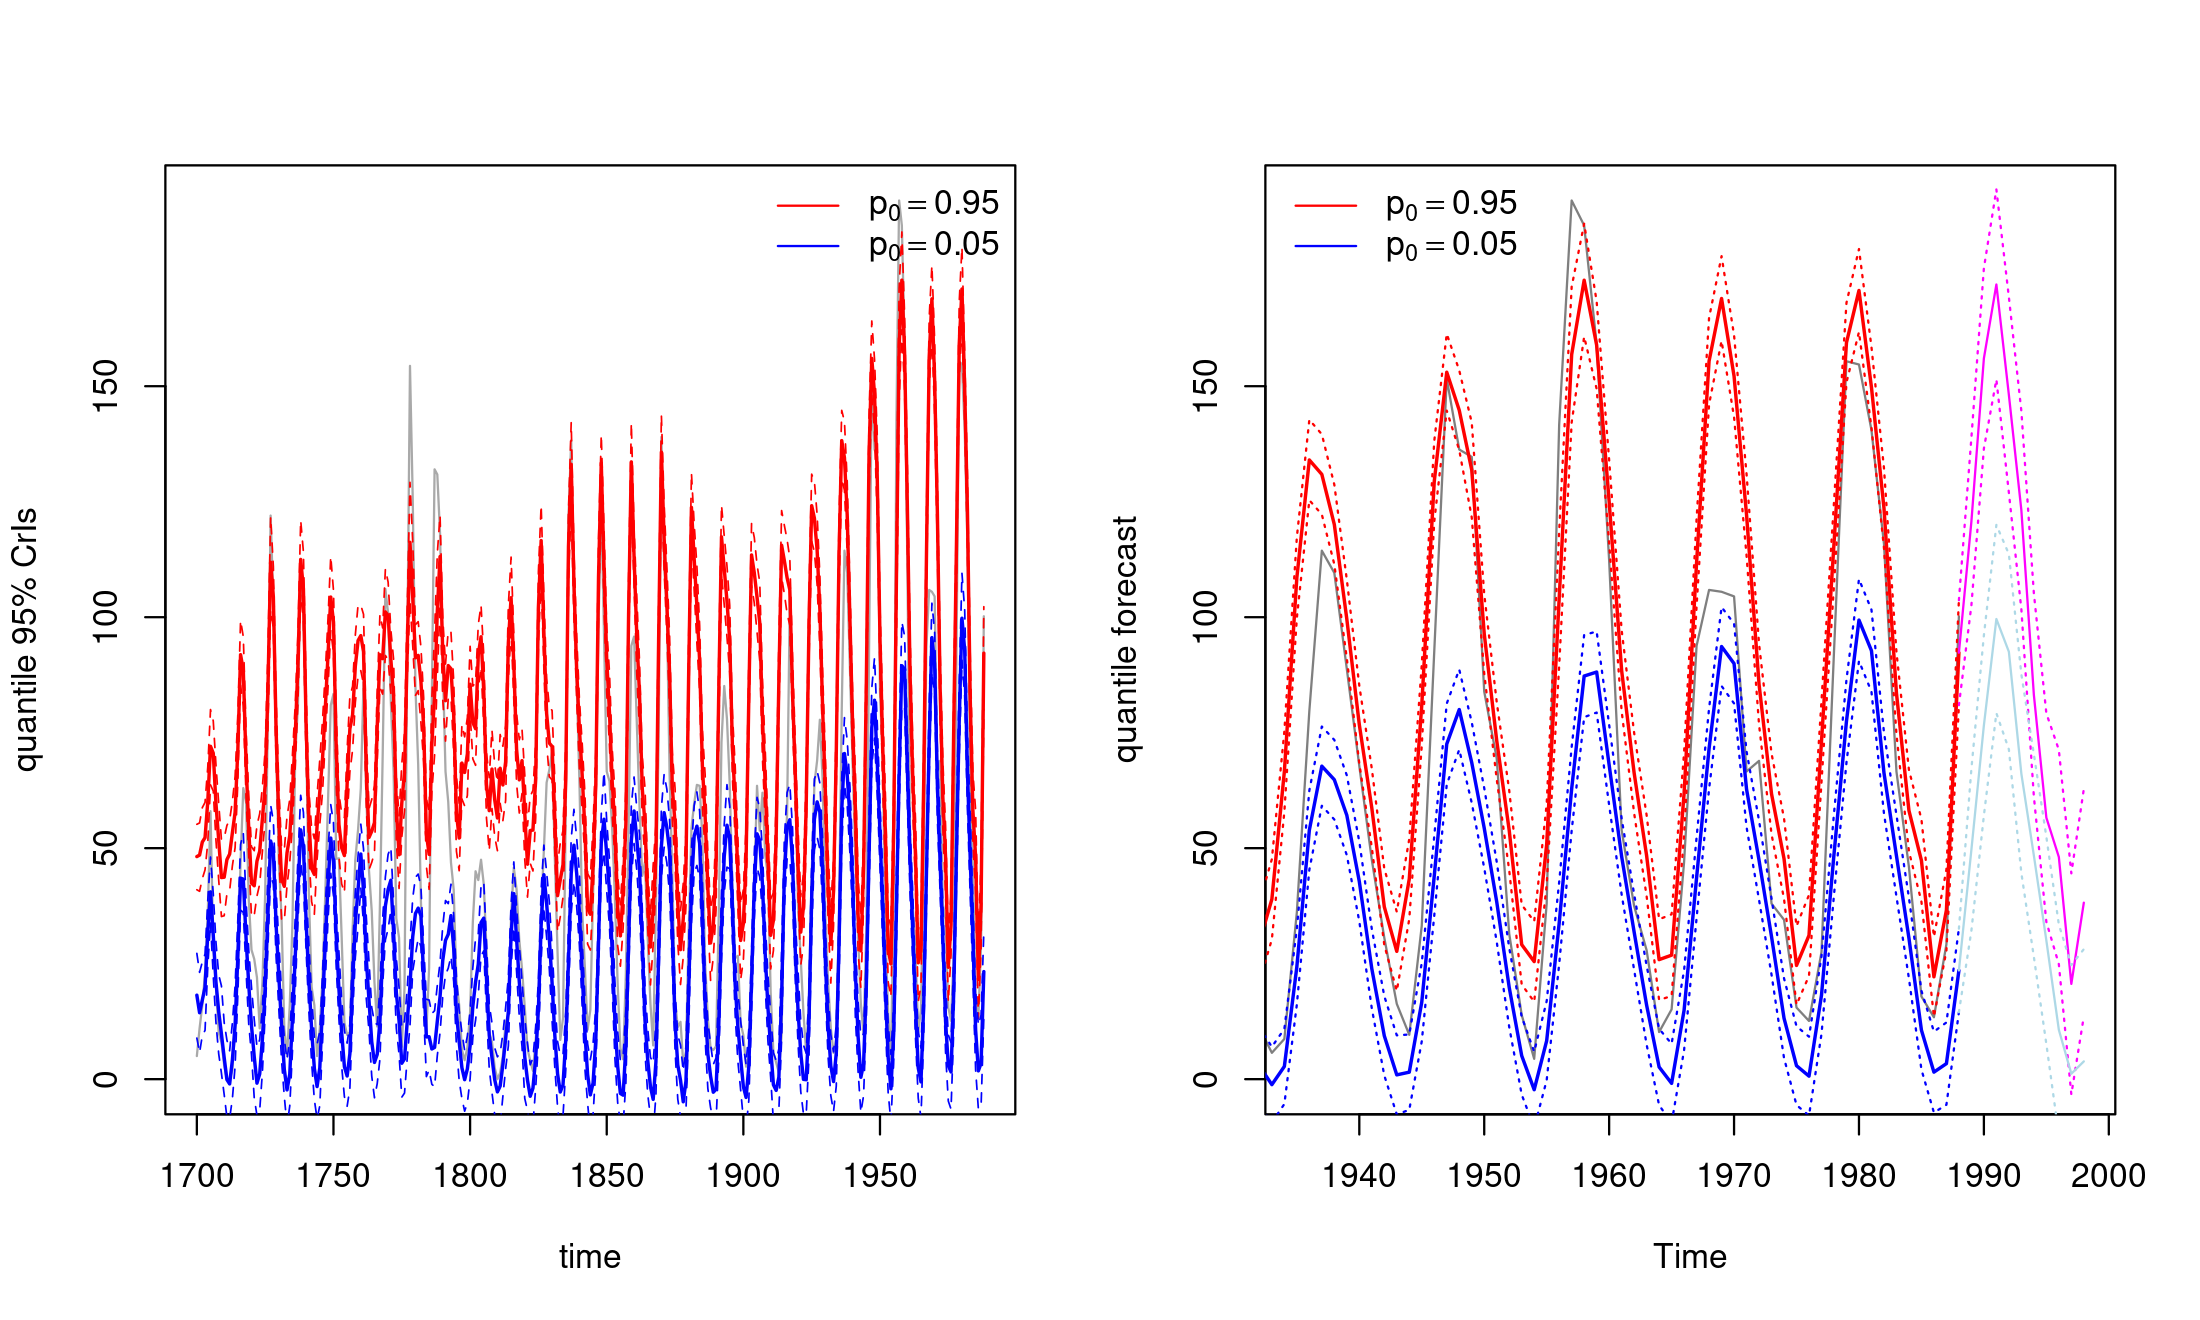
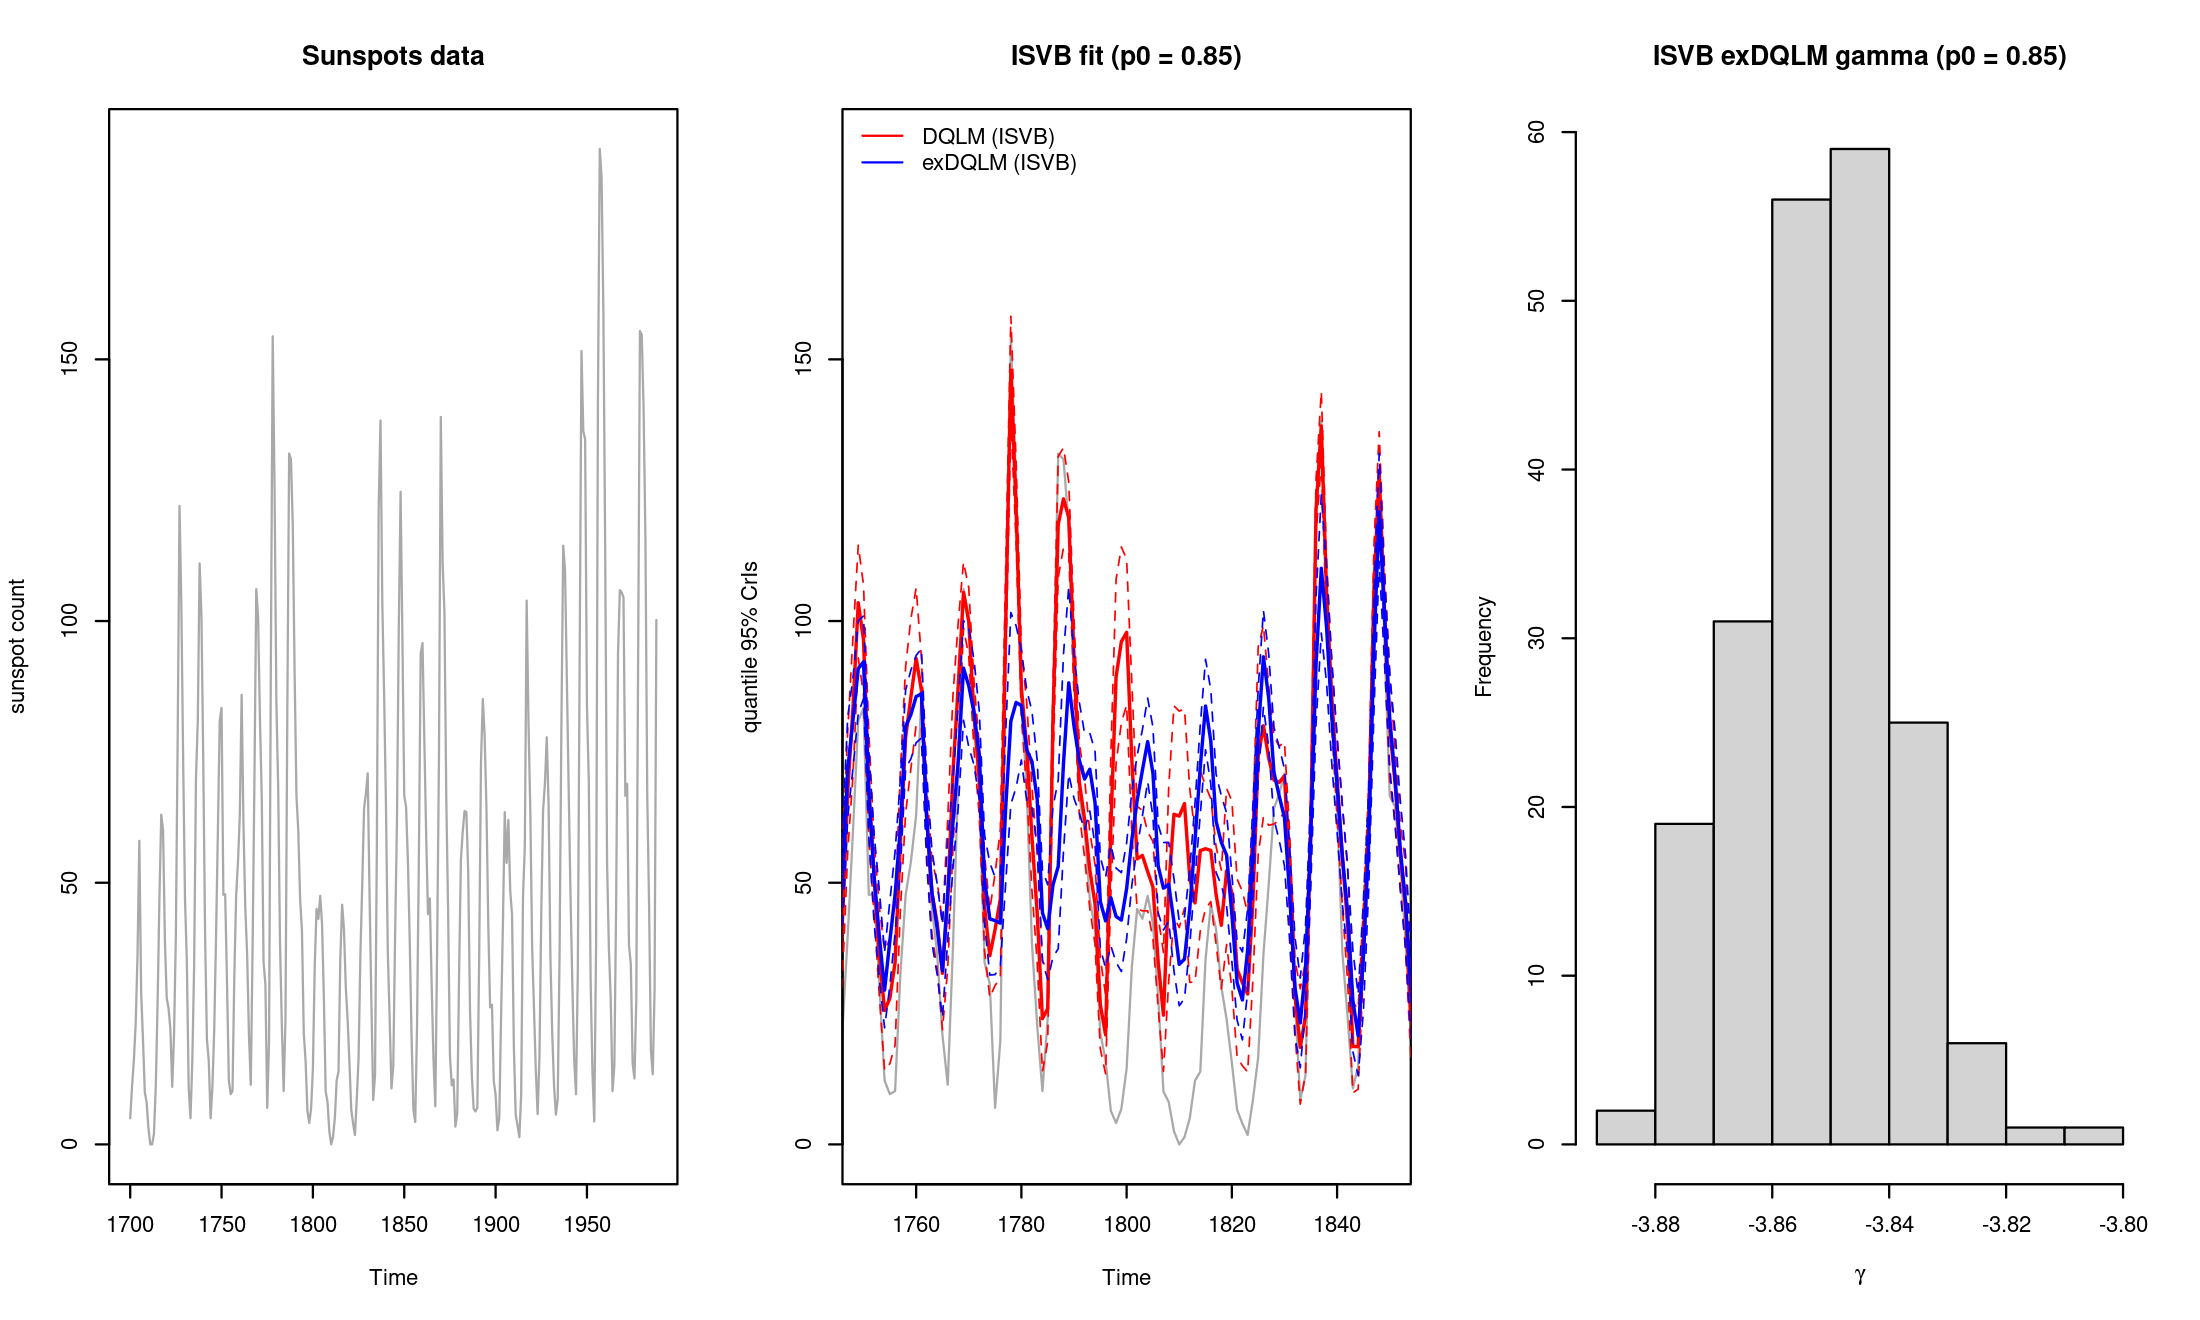
analysis: add ex2 quantile grids for isvb and ldvb

diff --git a/analysis/manuscript/outputs/tables/manuscript_repro_tracker.md b/analysis/manuscript/outputs/tables/manuscript_repro_tracker.md
@@ -1,6 +1,6 @@
 # Manuscript Reproducibility Tracker
 
-Generated: 2026-03-03 12:40:22
+Generated: 2026-03-03 13:24:16
 Profile: standard
 Seed: 20260302
 
@@ -8,7 +8,12 @@ Seed: 20260302
 
 - [reproduced] `ex2_model_output` -> `analysis/manuscript/outputs/logs/ex2_model_output.txt` (Example 2 model matrix output). Combined trend/seasonal state-space matrix.
 - [reproduced] `ex2_run_summary` -> `analysis/manuscript/outputs/logs/ex2_run_summary.txt` (Example 2 textual outputs). Includes sigma summary and ISVB/LDVB runtime diagnostics.
-- [reproduced] `fig_ex2quant` -> `analysis/manuscript/outputs/figures/ex2quant.png` (fig:ex2quant). Two-panel ISVB extreme-quantile figure (p0=0.05 and p0=0.95) with fit and forecast views.
+- [reproduced] `fig_ex2quant` -> `analysis/manuscript/outputs/figures/ex2quant.png` (fig:ex2quant). Three-panel ISVB figure for original p0=0.85 comparing DQLM and exDQLM.
+- [reproduced] `fig_ex2quant_p099` -> `analysis/manuscript/outputs/figures/ex2quant_p099.png` (new: fig ex2quant ISVB upper-tail (p0=0.99)). Three-panel ISVB figure for p0=0.99 comparing DQLM and exDQLM.
+- [reproduced] `fig_ex2quant_p005` -> `analysis/manuscript/outputs/figures/ex2quant_p005.png` (new: fig ex2quant ISVB lower-tail (p0=0.05)). Three-panel ISVB figure for p0=0.05 comparing DQLM and exDQLM.
+- [reproduced] `fig_ex2quant_ldvb` -> `analysis/manuscript/outputs/figures/ex2quant_ldvb.png` (new: fig ex2quant LDVB counterpart). Three-panel LDVB figure for original p0=0.85 comparing DQLM and exDQLM.
+- [reproduced] `fig_ex2quant_ldvb_p099` -> `analysis/manuscript/outputs/figures/ex2quant_ldvb_p099.png` (new: fig ex2quant LDVB upper-tail (p0=0.99)). Three-panel LDVB figure for p0=0.99 comparing DQLM and exDQLM.
+- [reproduced] `fig_ex2quant_ldvb_p005` -> `analysis/manuscript/outputs/figures/ex2quant_ldvb_p005.png` (new: fig ex2quant LDVB lower-tail (p0=0.05)). Three-panel LDVB figure for p0=0.05 comparing DQLM and exDQLM.
 - [reproduced] `tab_api_migration_map` -> `analysis/manuscript/outputs/tables/manuscript_api_migration_map.csv` (global code migration). Maps deprecated manuscript calls to current package API.
 
 ## Notes
@@ -18,6 +23,6 @@ Seed: 20260302
 - ldvb_note: Added ISVB vs LDVB comparison figure for dynamic Sunspots example.
 - backend: MCMC runs use C++ backend options exdqlm.use_cpp_mcmc=TRUE and exdqlm.cpp_mcmc_mode='fast'.
 - ex2: Used explicit dlm->exdqlm conversion because as.exdqlm(dlm) errors in current package.
-- coverage: Targeted run; requested targets: ex2quant.
+- coverage: Targeted run; requested targets: ex2quant, ex2quant_ldvb.
 - timing: Exact runtime printouts in manuscript are historical and expected to differ.
 - scope: Main manuscript .tex was not modified; all updates are isolated under analysis/manuscript.
